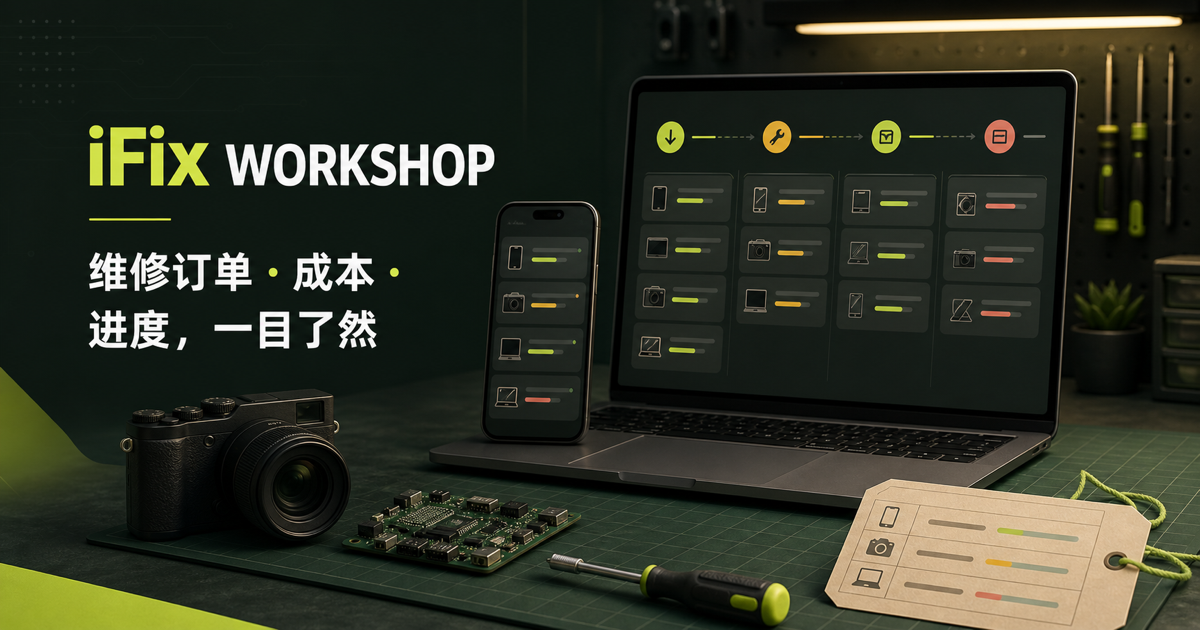
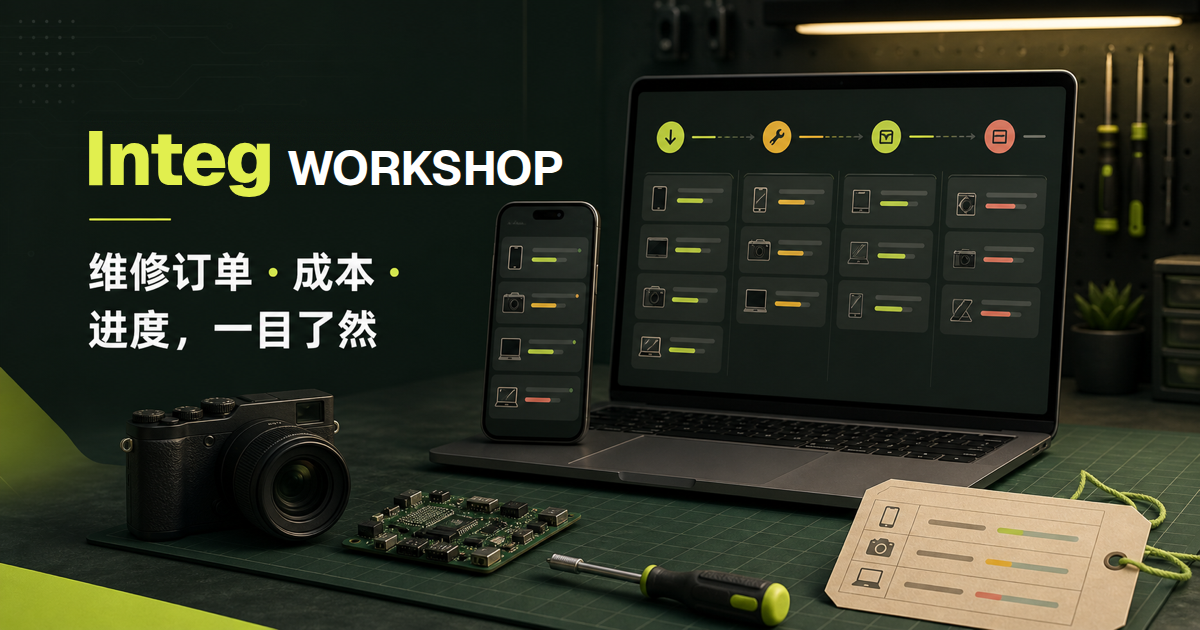
chore: rename the product from iFix to Integ
User-visible name: sidebar brand, page title, Open Graph title/alt, README
title, package displayName, and the Basic Auth realm shown in the browser's
login dialog (browsers will ask for the password once more because cached
credentials are keyed by realm). Tests assert the new title.

- public/og.png: the old wordmark was baked into the image, so it was
  repainted (background filled smoothly, "Integ WORKSHOP" set in Geist at the
  same position and cap height).
- package.json / package-lock.json: package name ifix-workshop -> integ-workshop.

Intentionally unchanged, because they identify the live deployment or stored
data: the Worker name and D1 database name in wrangler.jsonc (plus the
db:migrate:remote script), and the FIX- ticket-number prefix. Renaming the
Worker would create a new Worker and drop its APP_PASSWORD secret. README now
explains this.

Claude-Session: https://claude.ai/code/session_0157c4QdgBno9zoqUixZ7kSz

Changed region(s): [[0.0617, 0.181, 0.4933, 0.3317]]

diff --git a/app/layout.tsx b/app/layout.tsx
@@ -18,14 +18,14 @@ export async function generateMetadata(): Promise<Metadata> {
   const host = requestHeaders.get("x-forwarded-host") ?? requestHeaders.get("host") ?? "localhost:3000";
   const protocol = requestHeaders.get("x-forwarded-proto") ?? (host.startsWith("localhost") ? "http" : "https");
   const base = new URL(`${protocol}://${host}`);
-  const title = "iFix Workshop｜维修订单管理";
+  const title = "Integ Workshop｜维修订单管理";
   const description = "为单技师电子维修工作室打造的订单、进度、零件、成本与收款管理系统。";
   return {
     metadataBase: base,
     title,
     description,
     icons: { icon: "/favicon.png", shortcut: "/favicon.png" },
-    openGraph: { title, description, type: "website", url: base, images: [{ url: new URL("/og.png", base).toString(), width: 1200, height: 630, alt: "iFix Workshop 维修订单管理工作台" }] },
+    openGraph: { title, description, type: "website", url: base, images: [{ url: new URL("/og.png", base).toString(), width: 1200, height: 630, alt: "Integ Workshop 维修订单管理工作台" }] },
     twitter: { card: "summary_large_image", title, description, images: [new URL("/og.png", base).toString()] },
   };
 }

diff --git a/app/page.tsx b/app/page.tsx
@@ -216,7 +216,7 @@ export default function Home() {
   return (
     <main className="app-shell">
       <aside className={`sidebar ${menuOpen ? "open" : ""}`}>
-        <div className="brand"><span className="brand-mark"><Wrench size={20} /></span><span>iFix<small>WORKSHOP</small></span></div>
+        <div className="brand"><span className="brand-mark"><Wrench size={20} /></span><span>Integ<small>WORKSHOP</small></span></div>
         <button className="close-menu" onClick={() => setMenuOpen(false)} aria-label="关闭菜单"><X /></button>
         <nav>
           <p className="nav-label">工作空间</p>

diff --git a/worker/auth.ts b/worker/auth.ts
@@ -7,7 +7,7 @@ export interface AuthEnv {
   DB?: D1Database;
 }
 
-const CHALLENGE = 'Basic realm="iFix Workshop", charset="UTF-8"';
+const CHALLENGE = 'Basic realm="Integ Workshop", charset="UTF-8"';
 
 // Lock an IP once it has sent MAX_FAILURES wrong passwords within WINDOW_MS.
 const MAX_FAILURES = 5;

diff --git a/README.md b/README.md
@@ -1,4 +1,4 @@
-# iFix Workshop
+# Integ Workshop
 
 为单技师电子产品维修工作室设计的订单追踪与经营管理系统。适用于电脑、手机、相机、电视、游戏主机及小家电等维修业务。
 
@@ -12,6 +12,8 @@
 - 响应式工作台，可在桌面和手机上使用
 
 数据持久化在 Cloudflare D1，应用由 Cloudflare Workers 承载。
+
+> **关于旧名字**：产品名已改为 Integ，但 `wrangler.jsonc` 里的 Worker 名 `ifix-workshop` 和 D1 数据库名 `ifix-workshop-db`（以及 `db:migrate:remote` 脚本里的同名引用）是已部署资源的标识，仍沿用旧名。改 Worker 名会部署出一个全新的 Worker，访问地址变化，`APP_PASSWORD` 等 Secret 也要重新设置；D1 以 `database_id` 为准，只改名字会让命令和实际数据库对不上。工单号前缀 `FIX-` 已写入数据库，同样保持不变。
 
 ## 访问口令
 
